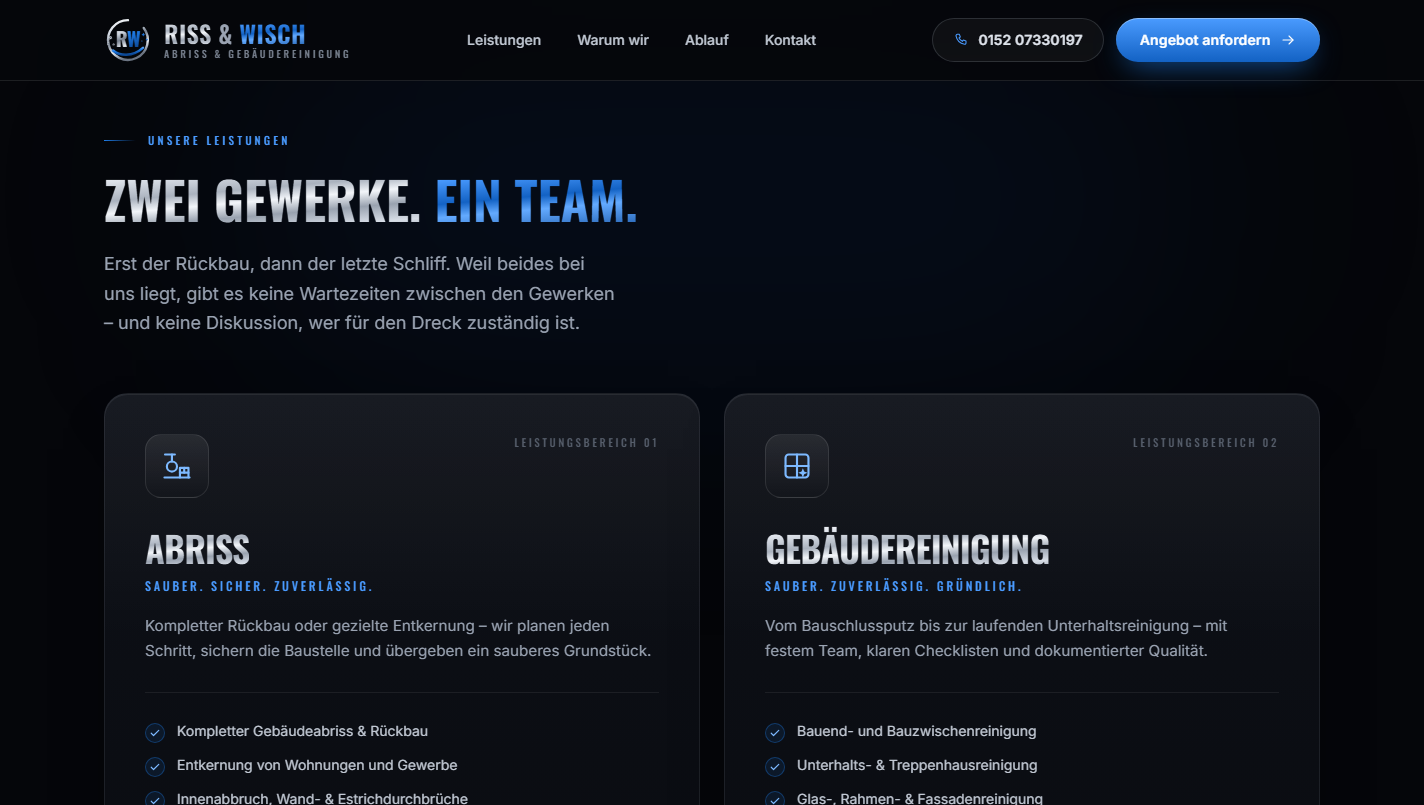
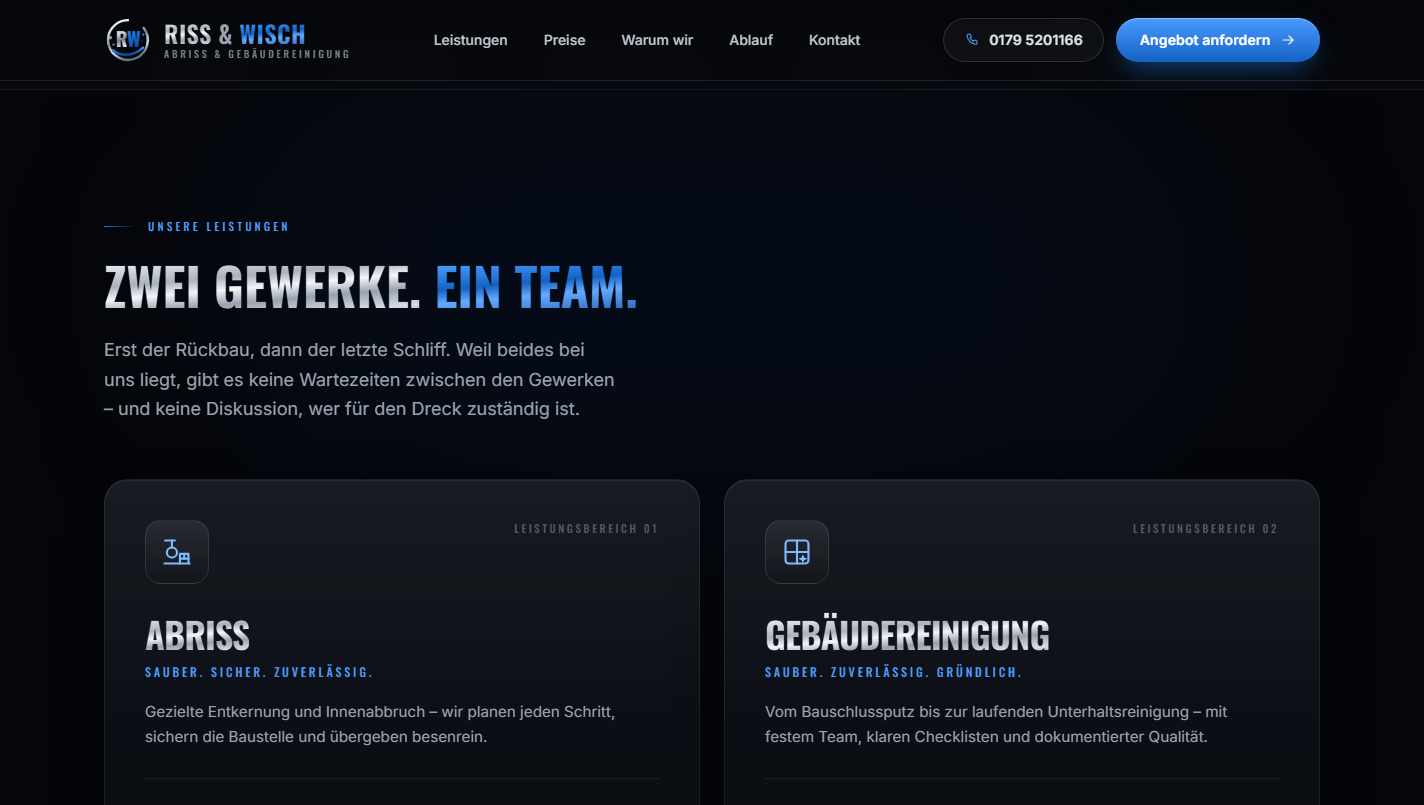
Neue Telefonnummer 0179 5201166
Die Nummer stand an vier Stellen in site.ts und zusaetzlich fest im
JSON-LD der Startseite. Damit sie kuenftig nur an einer Stelle
gepflegt wird, gibt es jetzt site.phoneIntl; das strukturierte
Datenblatt greift darauf zu, statt die Nummer erneut zu enthalten.

Betroffen sind Kopfzeile, Hero, Kontaktbereich, Fussbereich,
Impressum, Datenschutz, Preisseite, das Bestaetigungsfenster des
Formulars sowie der WhatsApp-Link. Screenshots in docs neu erstellt.

diff --git a/src/lib/site.ts b/src/lib/site.ts
@@ -6,11 +6,13 @@ export const site = {
   ownerRole: "Inhaber",
   claim: "Ein Team. Ein Anspruch. Ihre Lösung.",
   subline: "Abriss & Gebäudereinigung",
-  phone: "015207330197",
-  phoneHref: "tel:+4915207330197",
-  phonePretty: "0152 07330197",
+  phone: "01795201166",
+  phoneHref: "tel:+491795201166",
+  phonePretty: "0179 5201166",
+  /** Internationale Schreibweise für strukturierte Daten */
+  phoneIntl: "+491795201166",
   whatsappHref:
-    "https://wa.me/4915207330197?text=" +
+    "https://wa.me/491795201166?text=" +
     encodeURIComponent(
       "Hallo Riss & Wisch, ich hätte gerne ein Angebot für folgendes Projekt: ",
     ),

diff --git a/src/app/page.tsx b/src/app/page.tsx
@@ -16,7 +16,7 @@ const jsonLd = {
   description:
     "Entkernung, Innenabbruch und professionelle Gebäudereinigung in Karlsruhe und Umgebung.",
   url: site.url,
-  telephone: "+4915207330197",
+  telephone: site.phoneIntl,
   email: site.email,
   address: {
     "@type": "PostalAddress",

diff --git a/README.md b/README.md
@@ -32,6 +32,7 @@ Reinigung. Genau das ist das Verkaufsargument, und die Seitenstruktur ist darauf
 - **WhatsApp-Sektion** — Kunden schicken Fotos statt einen Vor-Ort-Termin zu vereinbaren
 - **Impressum & Datenschutzerklärung** nach § 5 DDG und Art. 13 DSGVO, inklusive Abschnitt zur WhatsApp-Nutzung
 - **Keine externen Requests** — Schriften lokal ausgeliefert, keine Cookies, kein Tracking, kein Consent-Banner nötig
+- **Preisseite** mit 18 Leistungsbereichen, Schnellübersicht und Ausschlüssen je Bereich
 - **SEO** — Metadaten, Open Graph und `LocalBusiness`-Schema mit Adresse und Öffnungszeiten
 - **Barrierearm** — Tastaturbedienung, sichtbarer Fokus, `aria`-Auszeichnung, `prefers-reduced-motion` respektiert
 
@@ -44,6 +45,10 @@ Reinigung. Genau das ist das Verkaufsargument, und die Seitenstruktur ist darauf
 | Kontakt & Anfrageformular |
 |---|
 | ![Kontakt](docs/screenshots/kontakt.png) |
+
+| Preisübersicht |
+|---|
+| ![Preise](docs/screenshots/preise.png) |
 
 ## Tech-Stack
 
